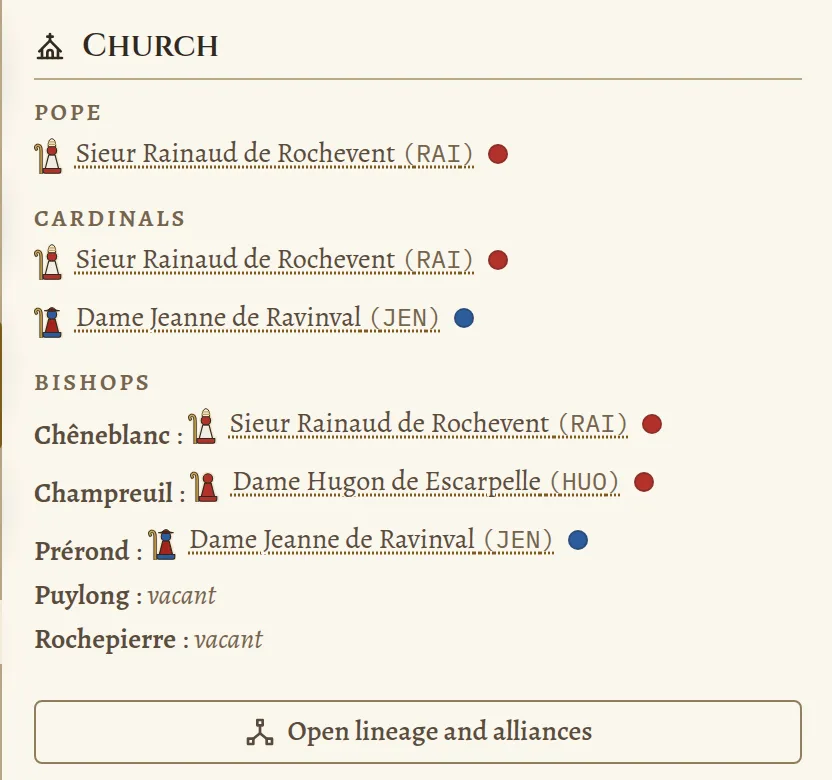
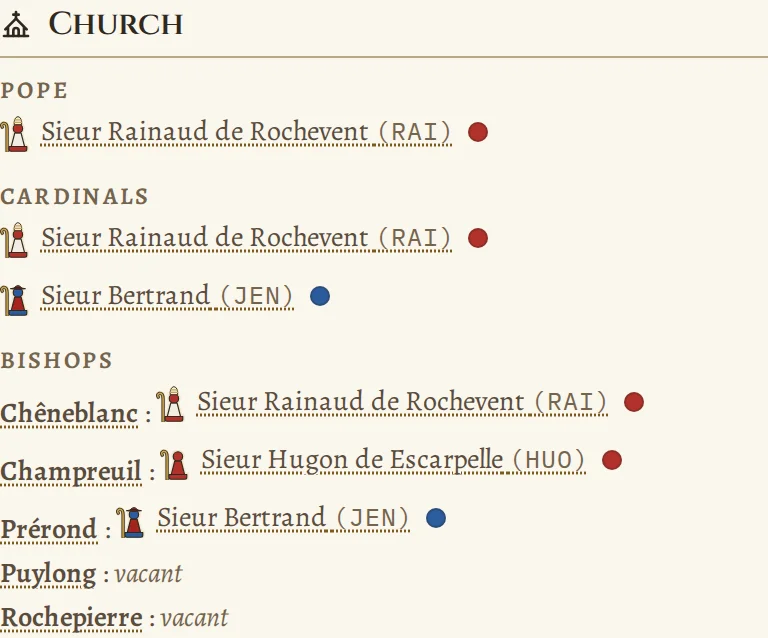
fix(docs): show male clergy in the rules realm screenshots
The winter demo scenario made church titleholders women (a lady
astrologer was also the bishop), contradicting the rules. Make the pope,
bishop, cardinal and excommunicated noble men, give the astrologer her
own noble, and regenerate the FR/EN realm screenshots.

Closes #560

Changed region(s): [[0.0, 0.5956, 0.9688, 1.0], [0.0, 0.268, 0.8125, 0.5956], [0.0, 0.0, 0.9688, 0.2382]]

diff --git a/cmd/server/demo_scenarios.go b/cmd/server/demo_scenarios.go
@@ -200,9 +200,22 @@ func forgeWinter(state *models.GameState) error {
 	state.Cardinals = []models.NobleID{pope, cardinal}
 	state.Pope = &pope
 	state.Excommunications = []models.Excommunication{{Noble: excommunicated, Reason: models.ExcommunicationPapal, By: pope}}
-	// P1's second noble becomes a lady astrologer; a Witch joins P1's court.
-	state.Nobles[p1[1]].Sex = models.SexFemale
-	state.Nobles[p1[1]].Dignities = []models.Dignity{models.DignityAstrologer}
+	// Church titles are male-only: the pope, the bishop, the cardinal and the
+	// excommunicated noble are men. A lady astrologer and a Witch join P1's court.
+	maleNames := []string{"Gilbert", "Aymeric", "Bertrand", "Thibaut"}
+	for turn, id := range []models.NobleID{pope, bishop, cardinal, excommunicated} {
+		for index := range state.Nobles {
+			if state.Nobles[index].ID == id && state.Nobles[index].Sex != models.SexMale {
+				state.Nobles[index].Sex = models.SexMale
+				state.Nobles[index].Name = maleNames[turn]
+			}
+		}
+	}
+	state.Nobles = append(state.Nobles, models.Noble{
+		ID: "N901", Code: "ZAS", Name: "Astrid", Sex: models.SexFemale, OwnerID: "P1",
+		LocationID: state.Nobles[p1[1]].LocationID, Status: models.NobleStatusFree,
+		Dignities: []models.Dignity{models.DignityAstrologer},
+	})
 	state.Nobles = append(state.Nobles, models.Noble{
 		ID: "N900", Code: "ZOE", Name: "Zoé", Sex: models.SexFemale, OwnerID: "P1",
 		LocationID: state.Nobles[p1[0]].LocationID, Status: models.NobleStatusFree,
